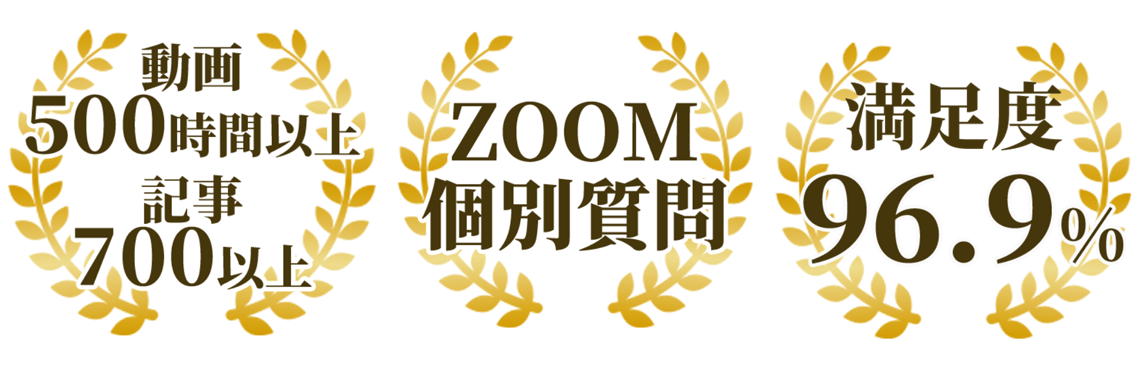
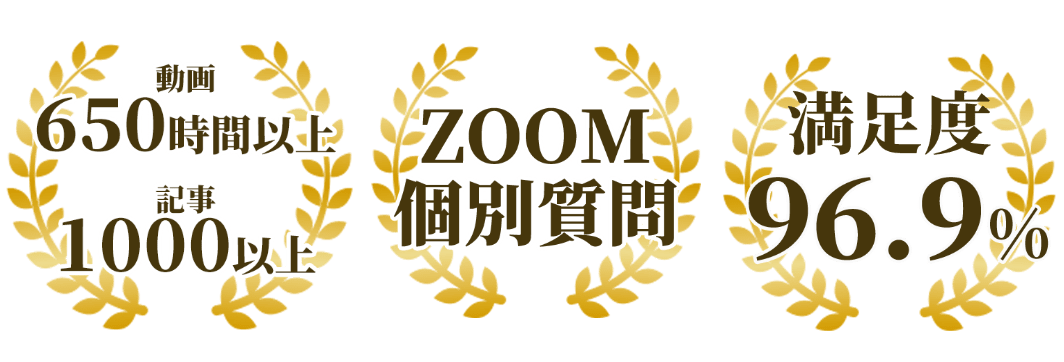
Change:動画時間、記事数変更

Changed region(s): [[0.0, 0.0912, 0.9925, 0.9116], [0.8374, 0.6381, 0.8684, 0.6685]]

diff --git a/ad_fb/index.html b/ad_fb/index.html
@@ -539,7 +539,7 @@ height="0" width="0" style="display:none;visibility:hidden"></iframe></noscript>
             <div class="great_item_wrap">
                 <img src="./images/icon_2.png" alt="">
             </div>
-            <p class="orange fz18">動画500時間以上 記事700以上！</p>
+            <p class="orange fz18">動画650時間以上 記事1000以上！</p>
         </li>
         <li class="great_item">
             <div class="great_item_wrap">
@@ -738,7 +738,7 @@ height="0" width="0" style="display:none;visibility:hidden"></iframe></noscript>
 <section id="contents" class="contents  component decoration">
     <h2 class="contents_title title_wrap"><span class="title">リハデミー内容を一部ご紹介！</span></h2>
     <div class="contents_subtitle orange_b">ラインナップ</div>
-    <div class="contents_pop fz20"><span class="br_pc contents_pop_deco">\ </span>動画500時間以上！<br class="br_sp"><span class="br_sp contents_pop_deco">\</span>トピックス700記事以上！論文毎日更新！/</div>
+    <div class="contents_pop fz20"><span class="br_pc contents_pop_deco">\ </span>動画650時間以上！<br class="br_sp"><span class="br_sp contents_pop_deco">\</span>トピックス1000記事以上！論文毎日更新！/</div>
     <div class="contents_slider">
         <div class="contents_slider-container">
             <div class="swiper-container2">
@@ -1032,8 +1032,8 @@ height="0" width="0" style="display:none;visibility:hidden"></iframe></noscript>
     <div class="price_box">
         <p class="price_message fz25">\  日々コンテンツ更新中 /</p>
         <ul class="price_list">
-            <li class="price_item fz20"><span class="orange_b marker fz24">動画500時間</span>以上が<span class="orange_b marker fz24">見放題</span></li>
-            <li class="price_item fz20"><span class="orange_b marker fz24">トピックス700記事</span>以上が<span class="orange_b marker fz24">見放題</span></li>
+            <li class="price_item fz20"><span class="orange_b marker fz24">動画650時間</span>以上が<span class="orange_b marker fz24">見放題</span></li>
+            <li class="price_item fz20"><span class="orange_b marker fz24">トピックス1000記事</span>以上が<span class="orange_b marker fz24">見放題</span></li>
             <li class="price_item fz20"><span class="orange_b marker fz24">ZOOM個別質問</span>利用可能</li>
             <li class="price_item fz20"><span class="orange_b marker fz24">いつでもどこでも学習可能！</span></li>
         </ul>
@@ -1120,7 +1120,7 @@ height="0" width="0" style="display:none;visibility:hidden"></iframe></noscript>
         <h2 class="together_title orange fz28">あなたもリハデミーで<br>
             市場価値の高いセラピストを目指しませんか？</h2>
         <ul class="together_list">
-            <li class="together_item fz16"><img src="./images/check_icon.png" class="together_check" alt="チェックアイコン">講習会・セミナー動画65タイトル以上が見放題
+            <li class="together_item fz16"><img src="./images/check_icon.png" class="together_check" alt="チェックアイコン">講習会・セミナー動画125タイトル以上が見放題
             </li>
             <li class="together_item fz16"><img src="./images/check_icon.png" class="together_check" alt="チェックアイコン">動画は毎月、論文紹介は毎日新作が楽しめます
             </li>
@@ -1167,7 +1167,7 @@ height="0" width="0" style="display:none;visibility:hidden"></iframe></noscript>
             </li>
         </ul>
     </div> -->
-    <small class="footer_copy">Copyright© 2020 Rehatech Links Inc, All right reserved.</small>
+    <small class="footer_copy">Copyright© 2021 Rehatech Links Inc, All right reserved.</small>
 </footer>
 </div>
 <script src="app.js"></script></body>
